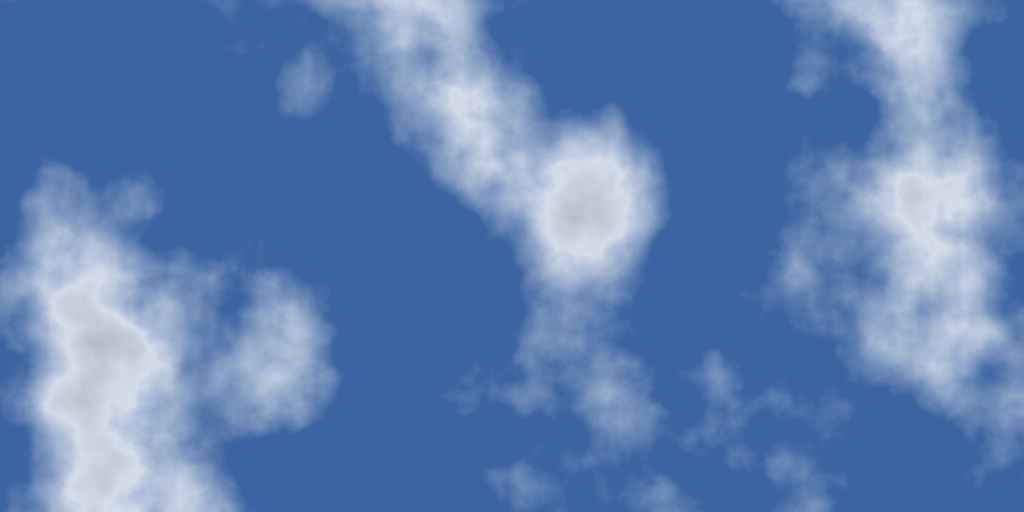
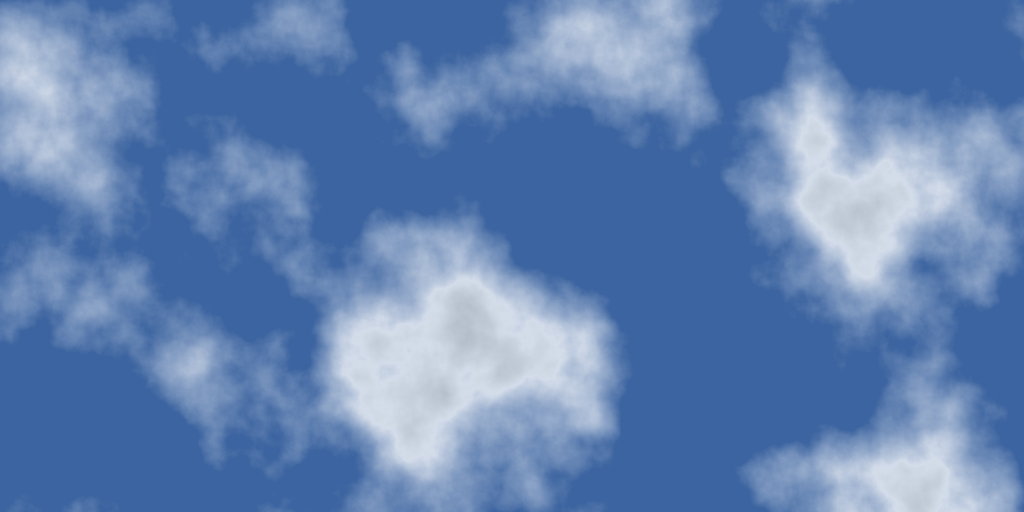
Update

diff --git a/docs/index.html b/docs/index.html
@@ -3,6 +3,6 @@
 <body>
 Today's cloud<br/>
 <img src="latest.png"/><br/>
-Latest update: Fri Feb 19 22:08:57 UTC 2021
+Latest update: Sat Feb 20 22:09:01 UTC 2021
 </body>
 </html>
